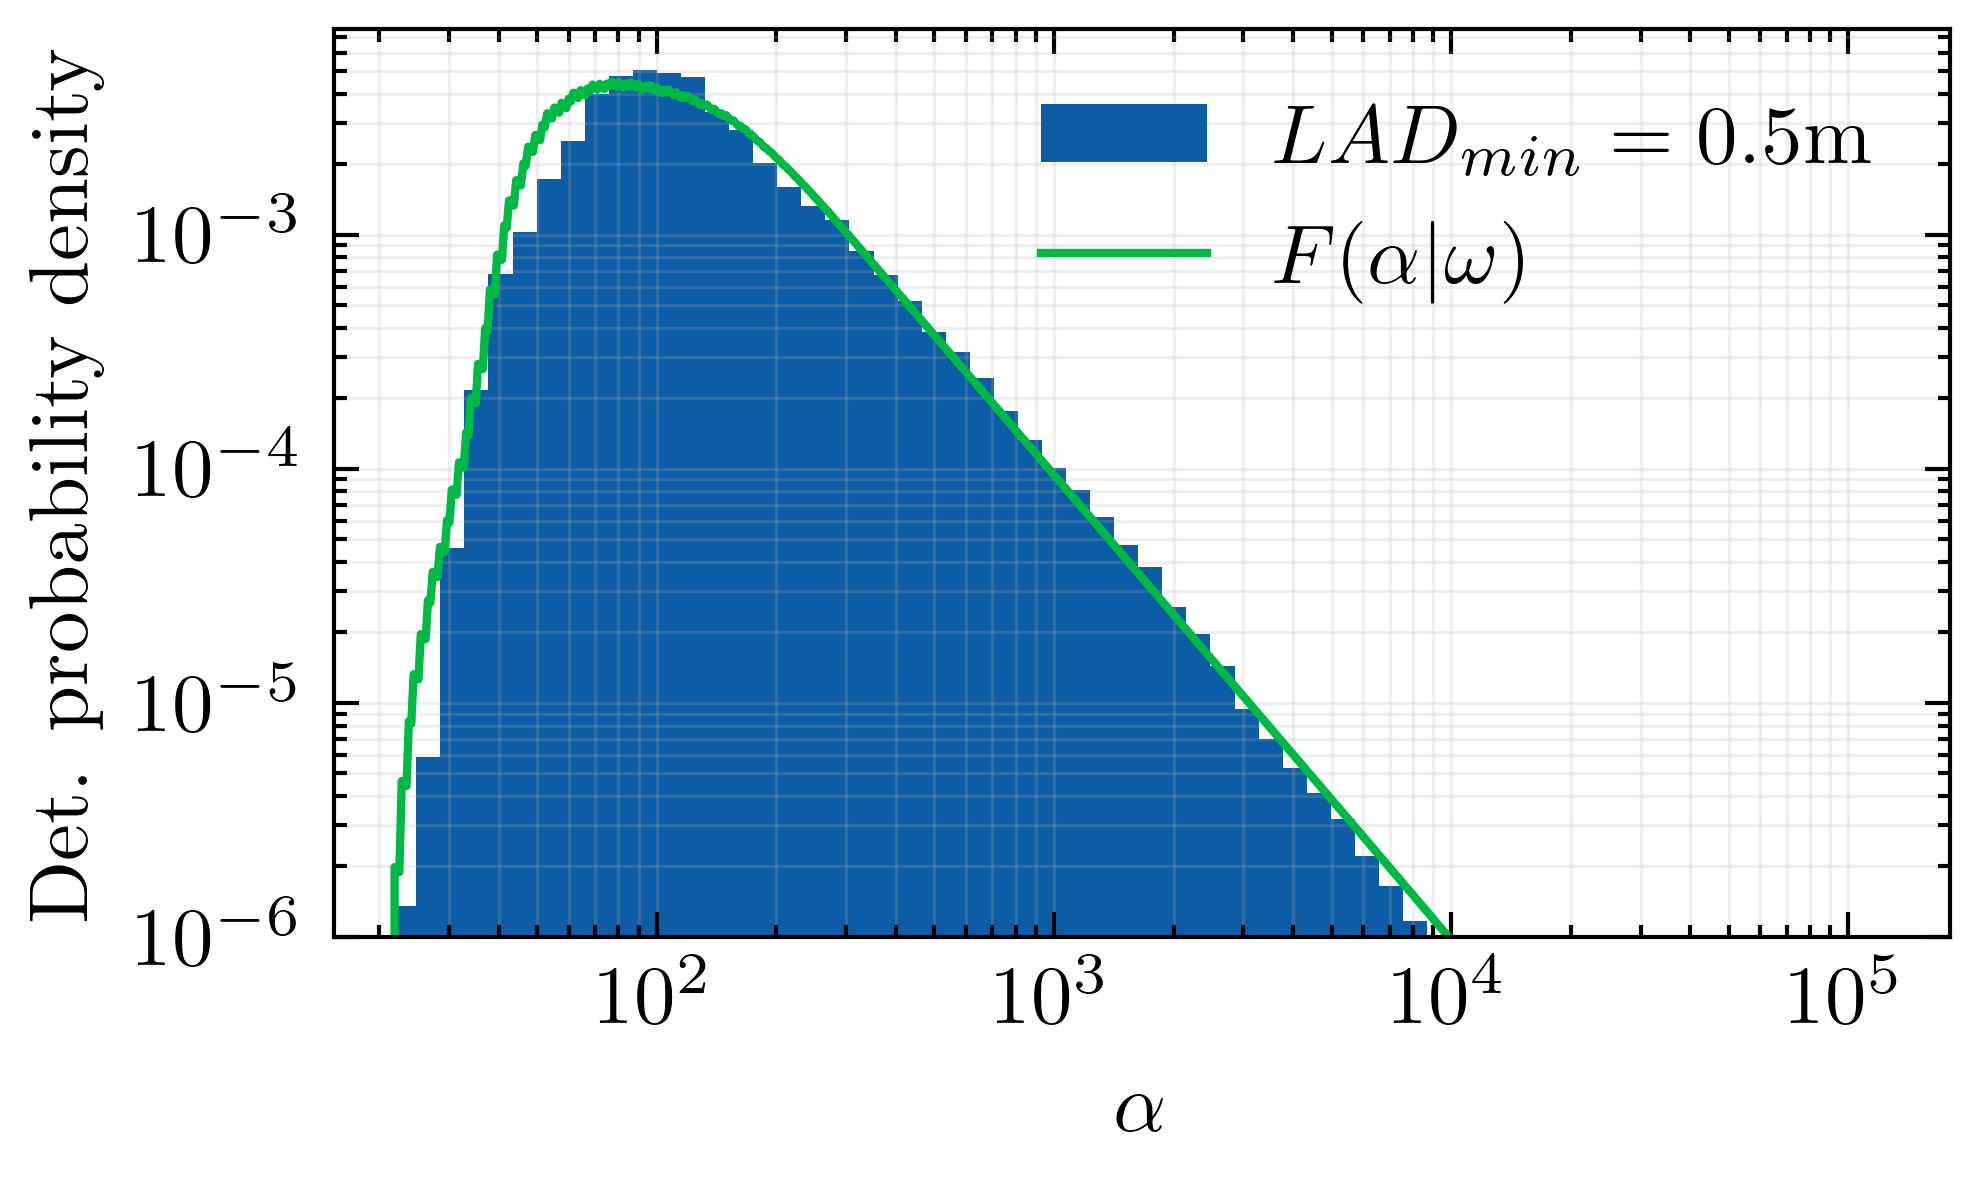
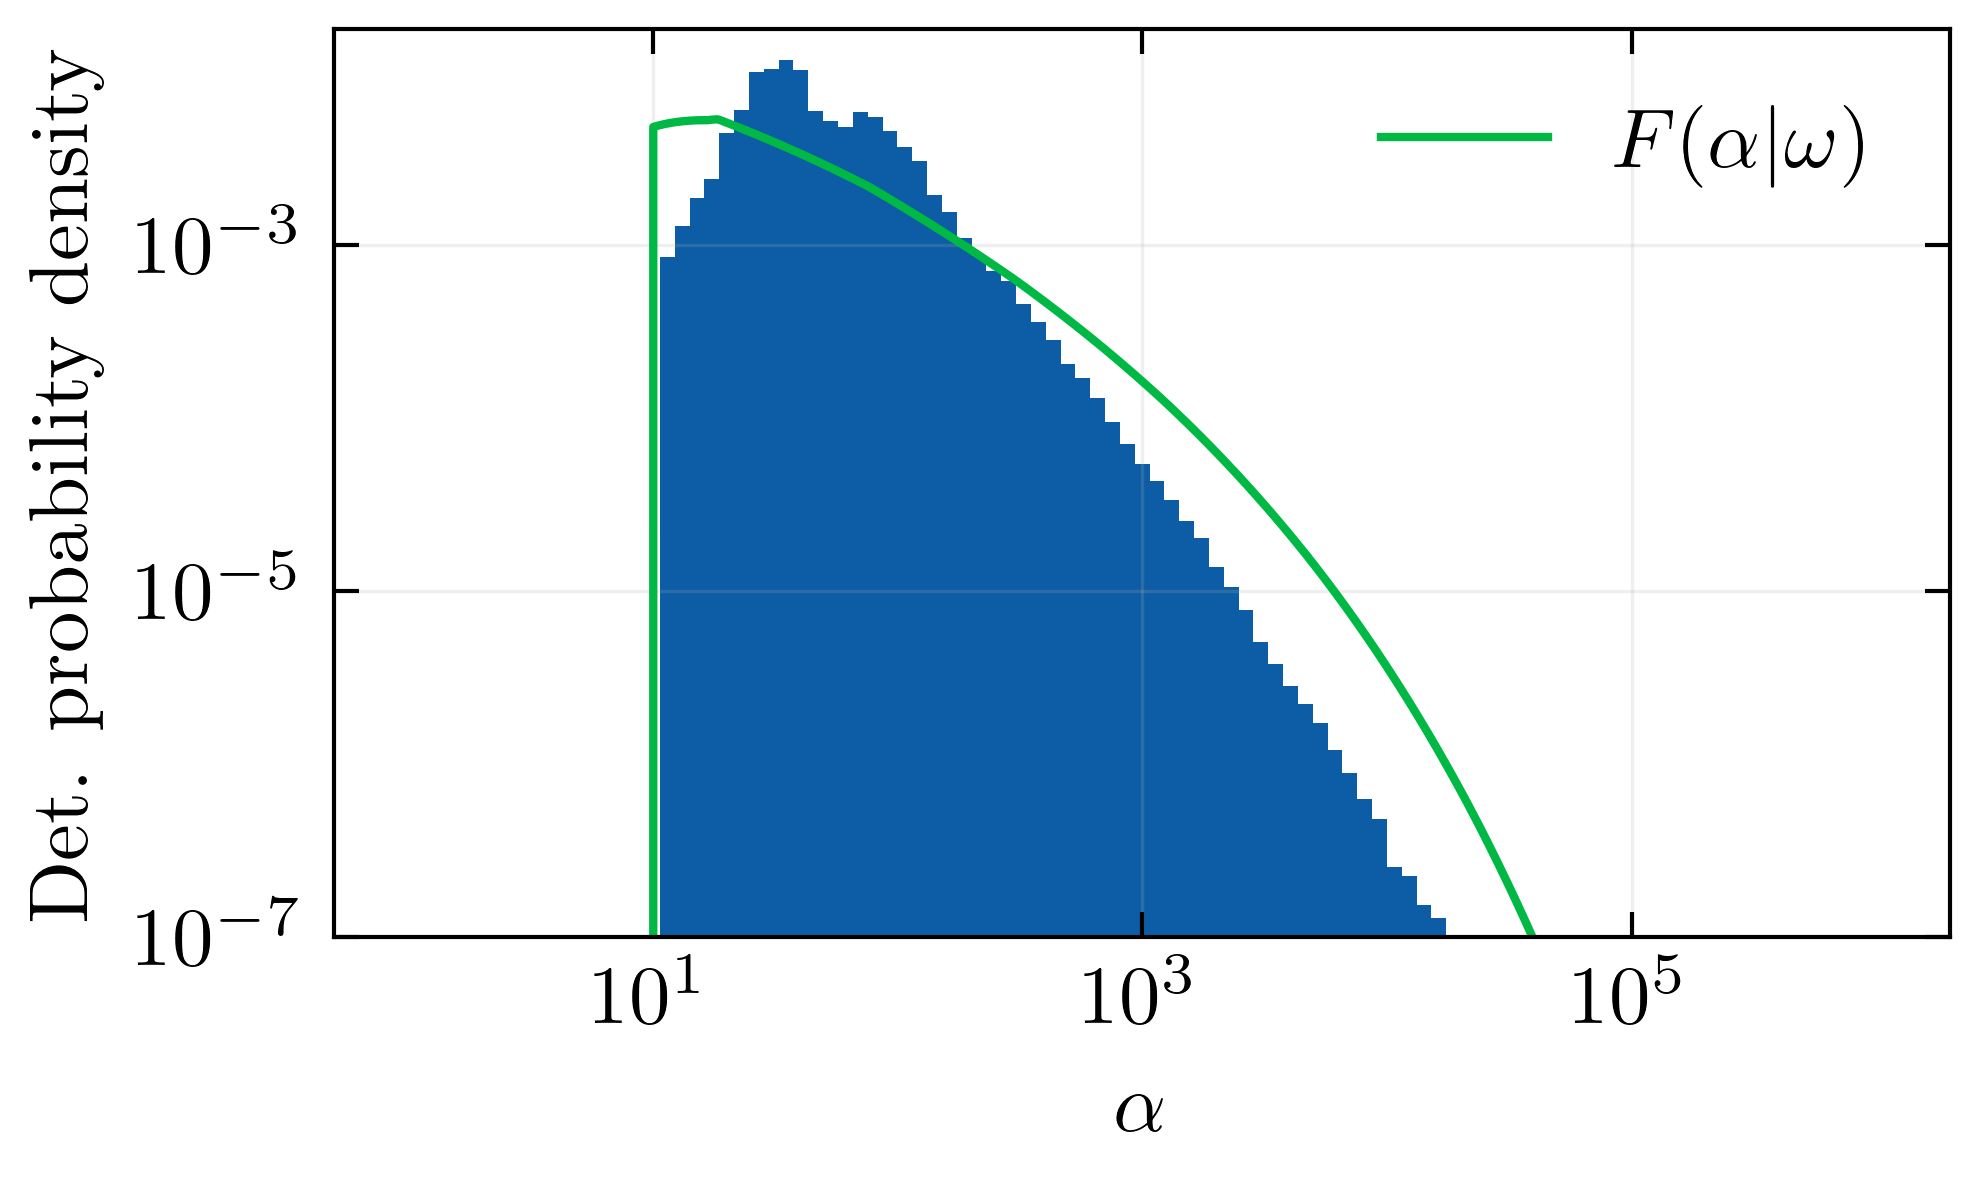
Added smoother for the powerlaw PSFD

diff --git a/src/boulder_statistics/analysis/quick_calculate_PowerLaw.py b/src/boulder_statistics/analysis/quick_calculate_PowerLaw.py
@@ -30,10 +30,41 @@ class PowerLawFittingFunction(GeneralPSFDFittingFunction[PowerLawFitParams]):
             q=fit_params.q)
 
     def sigma_sum(self, alphas, phis, phi_weights, q) -> np.ndarray:
-        return np.sum(np.where(
-            (self.a_min < alphas[:, None] /
-             phis[None, :]) & (alphas[:, None] /
-                               phis[None, :] < self.a_max),
-            phi_weights[None, :] * phis[None, :] ** (q - 1),
-            0
-        ), axis=1)
+        # Reconstruct bin edges from geometric centres
+        log_phis = np.log(phis)
+
+        log_edges = np.empty(len(phis) + 1)
+        log_edges[1:-1] = 0.5 * (log_phis[:-1] + log_phis[1:])
+        log_edges[0] = 2 * log_phis[0] - log_edges[1]
+        log_edges[-1] = 2 * log_phis[-1] - log_edges[-2]
+
+        log_left = log_edges[:-1]
+        log_right = log_edges[1:]
+        log_width = log_right - log_left
+
+        # Window in log(phi)
+        log_min = np.log(alphas[:, None] / self.a_max)
+        log_max = np.log(alphas[:, None] / self.a_min)
+
+        overlap = (
+            np.minimum(log_max, log_right[None, :])
+            - np.maximum(log_min, log_left[None, :])
+        )
+
+        fraction = np.clip(overlap / log_width[None, :], 0.0, 1.0)
+
+        return np.sum(
+            fraction
+            * phi_weights[None, :]
+            * phis[None, :] ** (q - 1),
+            axis=1,
+        )
+
+    # def sigma_sum(self, alphas, phis, phi_weights, q) -> np.ndarray:
+    #     return np.sum(np.where(
+    #         (self.a_min < alphas[:, None] /
+    #          phis[None, :]) & (alphas[:, None] /
+    #                            phis[None, :] < self.a_max),
+    #         phi_weights[None, :] * phis[None, :] ** (q - 1),
+    #         0
+    #     ), axis=1)